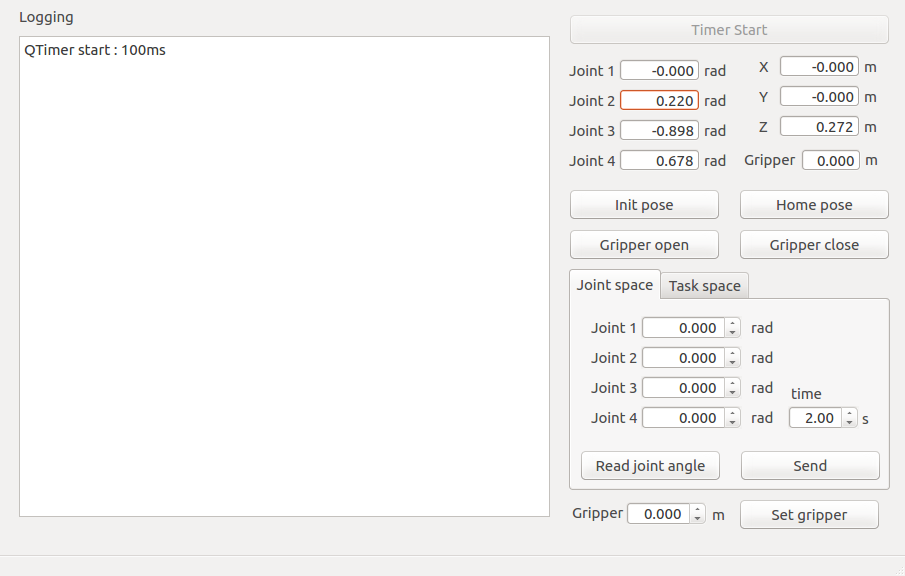
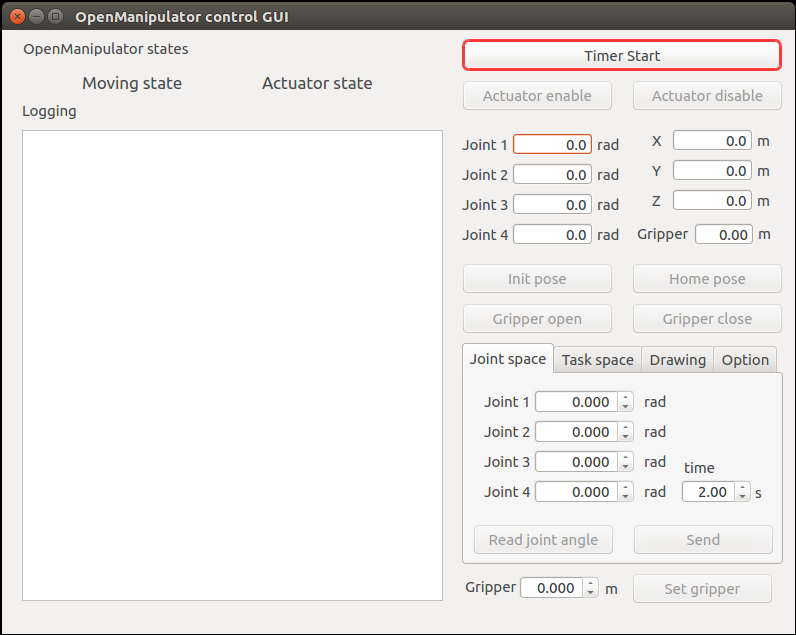
Update

diff --git a/docs/en/platform/openmanipulator.md b/docs/en/platform/openmanipulator.md
@@ -156,9 +156,6 @@ Below video might be help you.
 {% endcapture %}
 <div class="notice--info">{{ notice_01 | markdownify }}</div>
 
-
-
-
 ## [Install Ubuntu on PC](#install-ubuntu-on-pc)
 
 Download and install the `Ubuntu 16.04` on the `PC (your desktop or laptop PC)` from the following link.
@@ -698,45 +695,128 @@ The user can use this service to create a trajectory in the joint space. The use
   
 
 - `/open_manipulator/goal_task_space_path` ([open_manipulator_msgs/SetKinematicPose]{: .popup})  
-The user can use this service to create a trajectory in the task space. The user inputs the kinematic pose of the OpenManipulator end-effector relative to the base frame and the total time of the trajectory.
+The user can use this service to create a trajectory in the task space. The user inputs the kinematic pose of the OpenManipulator end-effector(tool) relative to the base frame and the total time of the trajectory.
 
 - `/open_manipulator/goal_joint_space_path_to_present` ([open_manipulator_msgs/SetJointPosition]{: .popup})  
 The user can use this service to create a trajectory from present joint angle in the joint space. The user inputs the angle of the target joint to be changed and the total time of the trajectory.
 
 - `/open_manipulator/goal_task_space_path_to_present` ([open_manipulator_msgs/SetKinematicPose]{: .popup})  
-The user can use this service to create a trajectory from present kinematic pose in the task space. The user inputs the kinematic pose to be changed of the OpenManipulator end-effector relative to the base frame and the total time of the trajectory.
+The user can use this service to create a trajectory from present kinematic pose in the task space. The user inputs the kinematic pose to be changed of the OpenManipulator end-effector(tool) relative to the base frame and the total time of the trajectory.
 
 - `/open_manipulator/goal_tool_control` ([open_manipulator_msgs/SetJointPosition]{: .popup})  
 The user can use this service to move the tool of OpenManipulator. 
 
 - `/open_manipulator/set_actuator_state` ([open_manipulator_msgs/SetActuatorState]{: .popup})  
 The user can use this service to control the state of actucators.   
-If the user set true at setActuatorState valuable, the actuator will be enabled.
-If the user set false at setActuatorState valuable, the actuator will be disabled.
+If the user set true at set_actuator_state valuable, the actuator will be enabled.  
+If the user set false at set_actuator_state valuable, the actuator will be disabled.
 
 - `/open_manipulator/goal_drawing_trajectory` ([open_manipulator_msgs/SetDrawingTrajectory]{: .popup})  
 The user can use this service to create a drawing trajectory. The user can create the circle, the rhombus, the heart, and the straight line trajectory.
 
 ## [GUI Program](#gui-program)
 
-  You can use GUI program to manipulate OpenManipulator. This program shows the status of the manipulator and provides the ability to operate the manipulator.
+{% capture notice_01 %}
+**NOTE**: 
+- This instructions were tested on `Ubuntu 16.04` and `ROS Kinetic Kame`.
+- This instructions are supposed to be running on PC ROS packages installed in. Please run the instructions below on your PC ROS packages installed in.
+- Make sure to run the [Open Manipulator controller](/docs/en/platform/openmanipulator/#launch-controller) instructions before running the instructions below.
+{% endcapture %}
+<div class="notice--info">{{ notice_01 | markdownify }}</div>
+
+  The user can use GUI program to manipulate OpenManipulator.  Launch `open_manipulator_control_gui` node.
+
   ```
   $ rosrun open_manipulator_control_gui open_manipulator_control_gui
   ```
+  To operate the OpenManipulator, first click the `Timer Start` button.  
+  This program shows the status of the manipulator and provides the ability to operate the manipulator.
 
-![](/assets/images/platform/openmanipulator/OpenManipulator_GUI.png)
+  ![](/assets/images/platform/openmanipulator/OpenManipulator_GUI.png)  
 
 ## [Teleoperation](#teleoperation)
+{% capture notice_01 %}
+**NOTE**: 
+- This instructions were tested on `Ubuntu 16.04` and `ROS Kinetic Kame`.
+- This instructions are supposed to be running on PC ROS packages installed in. Please run the instructions below on your PC ROS packages installed in.
+- Make sure to run the [Open Manipulator controller](/docs/en/platform/openmanipulator/#launch-controller) instructions before running the instructions below.
+{% endcapture %}
+<div class="notice--info">{{ notice_01 | markdownify }}</div>
 
 ### [Keyboard](#keyboard)
 
+**TIP**: The terminal application can be found with the Ubuntu search icon on the top left corner of the screen. Shortcut key for terminal is `Ctrl`-`Alt`-`T`.
+{: .notice--info}
+ 
+  Launch `open_manipulator_teleop_keyboard` node for simple teleoperation test using the keyboard.
 
+  ```
+  $ roslaunch open_manipulator_teleop open_manipulator_teleop_keyboard.launch 
+  ```
+  If the node is successfully launched, the following instruction will be appeared to the terminal window.
+
+
+  ```
+  ---------------------------
+  Control Your OpenManipulator!
+  ---------------------------
+  w : increase x axis in task space
+  s : decrease x axis in task space
+  a : increase y axis in task space
+  d : decrease y axis in task space
+  z : increase z axis in task space
+  x : decrease z axis in task space
+
+  y : increase joint 1 angle
+  h : decrease joint 1 angle
+  u : increase joint 2 angle
+  j : decrease joint 2 angle
+  i : increase joint 3 angle
+  k : decrease joint 3 angle
+  o : increase joint 4 angle
+  l : decrease joint 4 angle
+
+  g : gripper open
+  f : gripper close
+        
+  1 : init pose
+  2 : home pose
+        
+  q to quit
+  ---------------------------
+  Present Joint Angle J1: 0.000 J2: 0.000 J3: 0.000 J4: 0.000
+  Present Kinematic Position X: 0.000 Y: 0.000 Z: 0.000
+  ---------------------------
+  ```
 
 ### [PS4 Joystick](#ps4-joystick)
+Connect PS4 joystick to the PC via Bluetooth or with USB cable.  
 
+Install packages for teleoperation using PS4 joystick.
+
+``` 
+$ sudo apt-get install ros-kinetic-joy ros-kinetic-joystick-drivers ros-kinetic-teleop-twist-joy
+$ sudo pip install ds4drv
+```
+Launch teleoperation packages for PS4 joystick.
+```
+$ sudo ds4drv
+$ roslaunch open_manipulator_teleop open_manipulator_teleop_joystick.launch
+```
 
 ### [XBOX 360 Joystick](#xbox-360-joystick)
+Connect XBOX 360 joystick to the PC with Wireless Adapter or USB cable.
 
+Install packages for teleoperation using XBOX 360 joystick.
+
+``` 
+$ sudo apt-get install xboxdrv ros-kinetic-joy ros-kinetic-joystick-drivers ros-kinetic-teleop-twist-joy
+```
+Launch teleoperation packages for XBOX 360 joystick.
+```
+$ sudo xboxdrv --silent
+$ roslaunch open_manipulator_teleop open_manipulator_teleop_joystick.launch
+```
 
 ## [Moveit!](#moveit)
 
